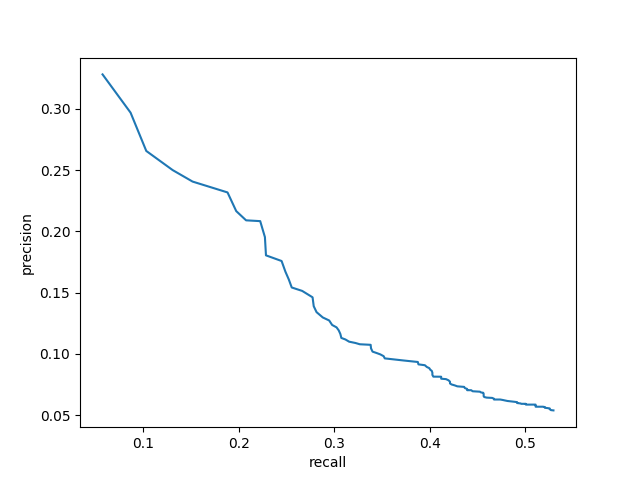
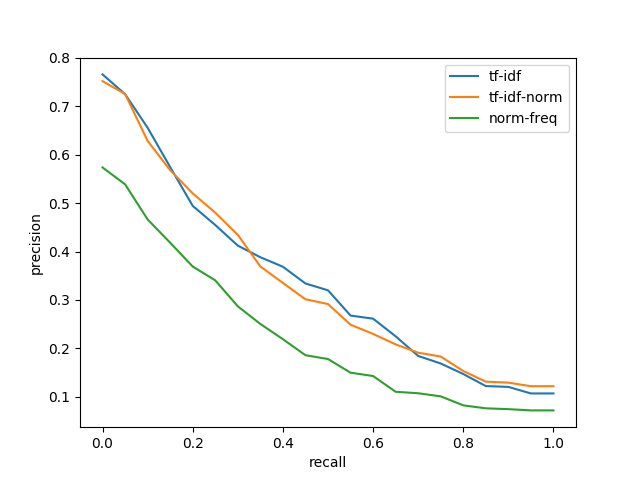
add recall precision mean curve

diff --git a/performance_test.py b/performance_test.py
@@ -4,6 +4,7 @@ import pickle
 import collections
 import math
 import matplotlib.pyplot as plt
+from timeit import timeit
 
 from documents import DocumentNormalizer, DocumentTokenizer, StopList, InvertedIndex, CASMBlock, CS276Block
 from query import Tree
@@ -17,26 +18,23 @@ parser.add_argument(
     '--model',
     choices=['vector', 'boolean'],
     default='vector',
-    help='the model to use for search'
-)
+    help='the model to use for search')
 
 parser.add_argument(
     '-w',
     '--weights',
-    choices=['tf-idf', 'tf-idf-norm', 'norm-freq'],
-    default='tf-idf',
+    choices=['tf-idf', 'tf-idf-norm', 'norm-freq', 'all'],
+    default='all',
     help='the weights to use in vector model')
 
 parser.add_argument(
     '-sw',
     '--sourceweights',
     choices=['tf-idf', 'tf-idf-norm', 'norm-freq', 'all', 'none'],
-    default= 'all',
-    help='which index file to read'
-)
+    default='all',
+    help='which index file to read')
 
 args = parser.parse_args()
-
 
 indexFile = './inv_index_cacm_' + args.sourceweights + '.pkl'
 docRetreiveFile = './doc_retreive_cacm_' + args.sourceweights + '.pkl'
@@ -46,14 +44,21 @@ tokenizer = DocumentTokenizer(stop_list)
 normalizer = DocumentNormalizer()
 
 if args.model == 'vector':
-    model = VectorModel(args.weights)
+    if args.weights == 'all':
+        models = [
+            VectorModel('tf-idf'),
+            VectorModel('tf-idf-norm'),
+            VectorModel('norm-freq')
+        ]
+    else:
+        models = [VectorModel(args.weights)]
 elif args.model == 'boolean':
     model = BooleanModel()
 else:
     raise Exception('Model ' + args.model + ' does not exist')
 
-class QRels:
 
+class QRels:
     def __init__(self, path):
         self.queries_results = collections.defaultdict(list)
         with open('./{}'.format(path), 'r') as f:
@@ -61,16 +66,17 @@ class QRels:
                 query, document_id, _, _ = line.split()
                 query = int(query)
                 document_id = int(document_id)
-                self.queries_results[query] = self.queries_results.get(query, []) + [document_id]
+                self.queries_results[query] = self.queries_results.get(
+                    query, []) + [document_id]
+
 
 class PerformanceQueries:
-
     def __init__(self, path):
         with open('./{}'.format(path), 'r') as f:
             document = f.read()
         self.queries = {}
         self.parse_from_string(document)
- 
+
     def parse_from_string(self, document):
         queries_list = re.split('^\.I ', document, flags=re.MULTILINE)
         for query in queries_list:
@@ -79,7 +85,9 @@ class PerformanceQueries:
                 query_identifier = int(queries_part[0])
                 for element in queries_part:
                     if element.startswith('W'):
-                        self.queries[query_identifier] = ' '.join(element.split('\n')[1:])
+                        self.queries[query_identifier] = ' '.join(
+                            element.split('\n')[1:])
+
 
 with open(docRetreiveFile, 'rb') as f:
     retreive_dict = pickle.load(f)
@@ -95,43 +103,120 @@ with open(docRetreiveFile, 'rb') as f:
     queries = PerformanceQueries('./query.text')
     print("loaded queries from ./query.text")
 
-    avgRecallsAtRank = []
-    avgPrecisionsAtRank = []
+    # plot a curve for each model
+    for model in models:
+        N = 20
 
-    # inv_index.search(queries.queries[1], model, tokenizer, normalizer)
-    # print(qrels.queries_results[1])
+        # stores raw recalls and precision query_id -> list
+        recalls = {}
+        precisions = {}
+
+        # stores interpolated recalls an precisions query_id -> list
+        recalls_interpolated = {}
+        precisions_interpolated = {}
+
+        # run all queries first
+        @timeit
+        def run_queries():
+            return {
+                qid: inv_index.search(query, model, tokenizer, normalizer)
+                for qid, query in queries.queries.items()
+            }
+
+        all_results, elapsed_time = run_queries()
+
+        print(
+            str(len(all_results)) + " queries ran in " + str(elapsed_time) +
+            "ms using weights " + model.method)
+
+        # build raw recall and precision
+        for qid, ar in all_results.items():
+            if len(qrels.queries_results[qid]) > 0:
+                recalls[qid] = []
+                precisions[qid] = []
+                # limit the rank to max 200
+                for rank in range(1, min(len(ar), 200)):
+                    results = ar[:rank]
+                    right_results = [
+                        result for result in results
+                        if result in qrels.queries_results[qid]
+                    ]
+
+                    recall = len(right_results) / len(
+                        qrels.queries_results[qid])
+                    precision = len(right_results) / len(results)
+
+                    recalls[qid].append(recall)
+                    precisions[qid].append(precision)
+
+        # keep maximum precision for lower rank
+        for qid, qprecisions in precisions.items():
+            maximum = float("-inf")
+            qprecisions_interpolated = []
+            qprecisions.reverse()
+            for val in qprecisions:
+                maximum = max(maximum, val)
+                qprecisions_interpolated.append(maximum)
+            qprecisions_interpolated.reverse()
+            precisions[qid] = qprecisions_interpolated
+
+        # n points interpolate
+        for qid in precisions.keys():
+
+            def n_points_interpolate(qrecalls, qprecisions, n):
+                qprecisions = [max(qprecisions)] + qprecisions + [
+                    len(qprecisions) / len(qrels.queries_results[qid])
+                ]
+                qrecalls = [0] + qrecalls + [1]
+                qprecisions_res = [qprecisions[0]]
+                qrecalls_res = [qrecalls[0]]
+                thresholds = [(i + 1) / n for i in range(n)]
+                thresholdIter = 0
+                for i, recall in enumerate(qrecalls):
+                    if thresholdIter >= len(thresholds):
+                        break
+
+                    # iterate until we reach the required threshold
+                    if recall < thresholds[thresholdIter]:
+                        continue
+                    # once it is reached fill thresholds until the recall value is not overshot
+                    while thresholdIter < len(thresholds) \
+                        and not thresholds[thresholdIter] > qrecalls[i]:               
+
+                        # can handle affine interpolation
+                        pt = qprecisions[i - 1] - (
+                            qprecisions[i - 1] - qprecisions[i]
+                        ) * (qrecalls[i - 1] - thresholds[thresholdIter]) / (
+                            qrecalls[i - 1] - qrecalls[i]
+                        ) if qrecalls[i - 1] - qrecalls[i] > 0 else qprecisions[
+                            i - 1]
+                        qprecisions_res.append(pt)
+                        qrecalls_res.append(thresholds[thresholdIter])
+                        
+                        thresholdIter += 1
 
 
-    all_results = {qid:inv_index.search(query, model, tokenizer, normalizer)
-                for qid,query in queries.queries.items()}
 
-    for rank in range(1,100):
-        
-        results = {qid: ar[:rank] for qid, ar in all_results.items()}
+                return qrecalls_res, qprecisions_res
 
-        right_results = collections.defaultdict(list)
-        for qid, found_docs in results.items():
-            for found_doc in found_docs:
-                if qid in qrels.queries_results:
-                    if found_doc in qrels.queries_results[qid]:
-                        right_results[qid].append(found_doc)
+            qrecalls_res, qprecisions_res = n_points_interpolate(
+                recalls[qid], precisions[qid], N)
+            recalls_interpolated[qid] = qrecalls_res
+            precisions_interpolated[qid] = qprecisions_res
 
-        recall = {qid: len(right_results[qid]) / len(qrels.queries_results[qid]) for qid in qrels.queries_results.keys()}
-        precision = {qid: len(right_results[qid]) / len(results[qid]) for qid in results.keys()}
+        # average interpolated precisions
+        avg_precisions_interpolated = []
+        avg_recalls_interpolated = [i/(N) for i in range(N + 1)]
+        for i in range(N+1):
+            avg_precisions_interpolated.append(sum([precs[i] for qid, precs in precisions_interpolated.items()]) / len(precisions_interpolated))
 
-        # avgRecall = recall[45]
-        # avgPrecision = precision[45]
-        avgRecall = sum(recall.values()) / len(recall)
-        avgPrecision = sum(precision.values()) / len(precision)
+        print(avg_recalls_interpolated)
+        print(avg_precisions_interpolated)
 
-        print("Average recall at rank " + str(rank) + ": " + str(avgRecall))
-        print("Average precision at rank " + str(rank) + ": " + str(avgPrecision))
+        plt.plot(avg_recalls_interpolated, avg_precisions_interpolated, label=model.method)
 
-        avgRecallsAtRank.append(avgRecall)
-        avgPrecisionsAtRank.append(avgPrecision)
-    avgPrecisionsAtRank = [max(avgPrecisionsAtRank[rank:]) for rank in range(len(avgPrecisionsAtRank))]
-
-    plt.plot(avgRecallsAtRank, avgPrecisionsAtRank)
+    plt.legend()
     plt.xlabel('recall')
     plt.ylabel('precision')
     plt.savefig('./recallPrecision.png')
+    print('Recall precision curves drawn in ./recallPrecision.png')

diff --git a/search_models.py b/search_models.py
@@ -26,7 +26,6 @@ class VectorModel:
         # let us build the query vector
         gen = tokenizer.tokenize(input, normalizer)
         tokens = [token for token in gen]
-        print(tokens)
 
         query_vector = SparseWordVector()
         counter = collections.Counter(tokens)
@@ -67,14 +66,14 @@ class VectorModel:
         similarities = {doc_id: doc_vector.cosSimilarityCallerDims(query_vector) for doc_id, doc_vector in document_vectors.items()}
         sorted_doc_ids = sorted(similarities, key=lambda k:similarities[k], reverse=True)
 
-        for id in sorted_doc_ids[:10]:
-            print("#######")
-            print("id: " + str(id))
-            print("sim: " + str(similarities[id]))
-            cmon = set(query_vector.v.keys()).intersection(set(document_vectors[id].v.keys()))
-            print("cmon: " + str(cmon))
-            print("query: " + str(query_vector.v.keys()))
-            print("document: " + str(document_vectors[id].v.keys()))
+        # for id in sorted_doc_ids[:10]:
+        #     print("#######")
+        #     print("id: " + str(id))
+        #     print("sim: " + str(similarities[id]))
+        #     cmon = set(query_vector.v.keys()).intersection(set(document_vectors[id].v.keys()))
+        #     print("cmon: " + str(cmon))
+        #     print("query: " + str(query_vector.v.keys()))
+        #     print("document: " + str(document_vectors[id].v.keys()))
 
         return sorted_doc_ids
 

diff --git a/documents.py b/documents.py
@@ -123,7 +123,7 @@ class InvertedIndex:
                     self.norm_freq[token].update(inv_index.norm_freq[token])
 
     def build_tf_idf(self):
-        for (term, term_postings) in self.inverted_index.items():
+        for term, term_postings in self.inverted_index.items():
             idf = math.log10(len(self.inverted_index) / len(term_postings))
             for doc_id, raw_tf in term_postings.items():
                 tf = 1 + math.log10(raw_tf)

diff --git a/timeit.py b/timeit.py
@@ -1,0 +1,10 @@
+import time
+
+def timeit(method):
+    def timed(*args, **kw):
+        ts = time.time()
+        result = method(*args, **kw)
+        te = time.time()
+        elapsed_time = (te-ts)*1000 # ms
+        return (result, elapsed_time)
+    return timed
